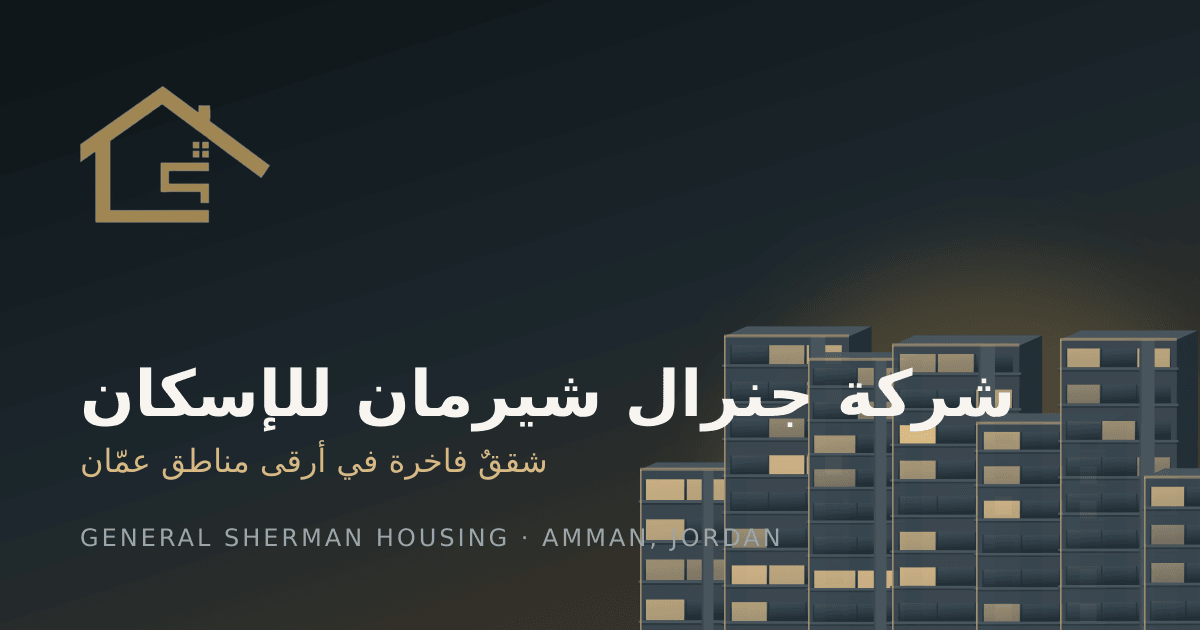
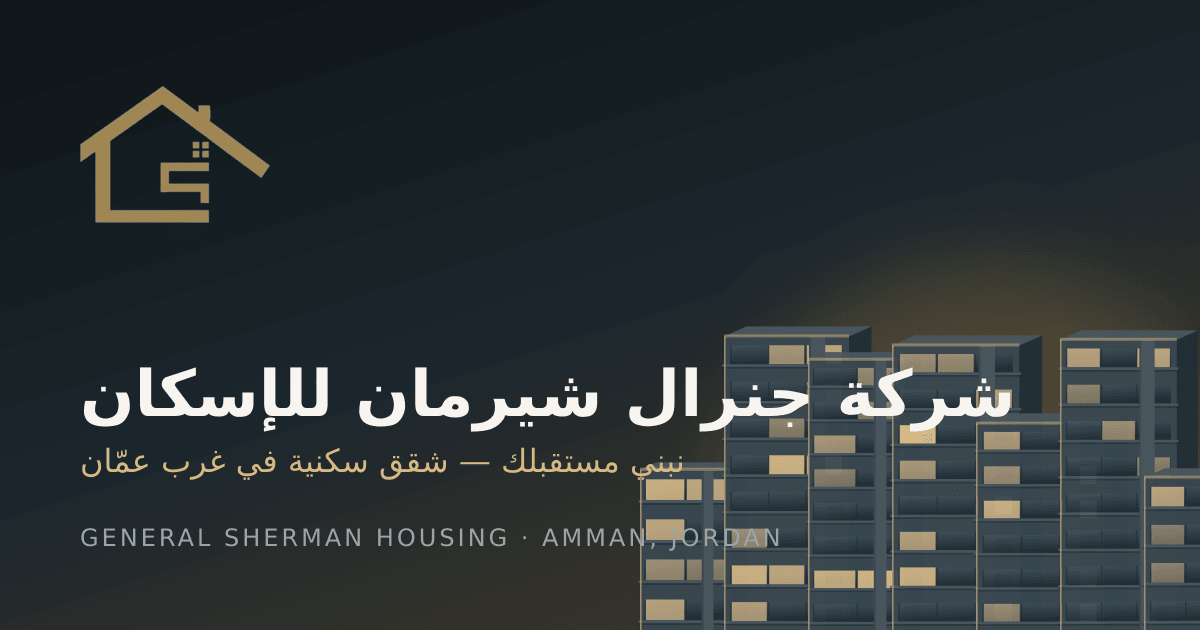
Real contact details, the company's own strapline, and two fixes
Phone and WhatsApp are now the mobile you gave (+962 7 9073 0903), and the
email is the one on the company's own material
(Mohammed.Zakaria90@hotmail.com), used for both the general and sales
addresses until there are two.

"نبني مستقبلك" replaces the tagline I had invented. It came from the same
material, and the field was never rendered anywhere — so it now appears
under the wordmark in the footer, where a strapline belongs.

Two things this surfaced:

The contact page's email link had no data-company-email, so unlike the
phone beside it its text was never refreshed from data.js — it would have
kept showing the old address after this change. The footer wordmark had the
same problem in reverse: its inline text still read "General Sherman" while
the dictionary had moved to "General Sherman Housing", so JS corrected it at
runtime but crawlers and no-JS visitors saw the stale one.

The footer's social icons were stacking vertically: .footer ul sets
display:grid at (0,1,1) and outranked .socials at (0,1,0). Matching the
specificity puts the row back.

Still placeholder: the office address, the social links, and the domain,
which feeds canonical/og:url and the sitemap.

Claude-Session: https://claude.ai/code/session_01Dn92wH5kZy9PxeQGkNu4eo

Changed region(s): [[0.1233, 0.6937, 0.5858, 0.7841]]

diff --git a/website/contact.html b/website/contact.html
@@ -36,7 +36,7 @@
       <img class="brand__mark" src="assets/img/logo-mark.png" alt="" width="512" height="378">
       <span>
         <span class="brand__name" data-i18n="brand.name">جنرال شيرمان</span>
-        <span class="brand__tag" data-i18n="brand.tag">General Sherman</span>
+        <span class="brand__tag" data-i18n="brand.tag">General Sherman Housing</span>
       </span>
     </a>
     <nav class="nav" id="nav" aria-label="القائمة الرئيسية">
@@ -124,11 +124,11 @@
           <h2 style="font-size:var(--fs-h3);margin-block-end:1.25rem" data-i18n="contact.directTitle">تواصل مباشر</h2>
           <ul class="tick-list" style="gap:1.25rem">
             <li><span data-icon="phone"></span><span><strong data-i18n="cta.call">اتصل بنا</strong><br>
-              <a data-tel href="#" data-company-phone class="link-arrow">+962 6 552 0176</a></span></li>
+              <a data-tel href="#" data-company-phone class="link-arrow">+962 7 9073 0903</a></span></li>
             <li><span data-icon="whatsapp"></span><span><strong data-i18n="cta.whatsapp">واتساب</strong><br>
               <a data-wa href="#" target="_blank" rel="noopener" class="link-arrow" data-i18n="contact.waLink">ابدأ محادثة</a></span></li>
             <li><span data-icon="mail"></span><span><strong data-i18n="form.email">البريد الإلكتروني</strong><br>
-              <a data-mail="sales" href="#" class="link-arrow">sales@generalsherman.jo</a></span></li>
+              <a data-mail="sales" href="#" data-company-email class="link-arrow">Mohammed.Zakaria90@hotmail.com</a></span></li>
             <li><span data-icon="pin"></span><span><strong data-i18n="contact.office">مكتب المبيعات</strong><br>
               <span data-i18n="footer.address">شارع عبد الله غوشة، مبنى ٤٦، الطابق الثالث، عمّان ١١١٩٤، الأردن</span></span></li>
             <li><span data-icon="clock"></span><span><strong data-i18n="contact.hours">ساعات العمل</strong><br>
@@ -175,8 +175,9 @@
         <a class="brand" href="index.html">
           <img class="brand__mark" src="assets/img/logo-mark.png" alt="" width="512" height="378">
           <span><span class="brand__name" data-i18n="brand.name">جنرال شيرمان</span>
-          <span class="brand__tag" data-i18n="brand.tag">General Sherman</span></span>
+          <span class="brand__tag" data-i18n="brand.tag">General Sherman Housing</span></span>
         </a>
+        <p class="footer__tagline" data-i18n="brand.tagline">نبني مستقبلك</p>
         <p class="footer__about" data-i18n="footer.about">شركة أردنية متخصصة في الشقق السكنية الفاخرة في غرب عمّان.</p>
         <ul class="socials">
           <li><a href="#" aria-label="Instagram" rel="noopener"><span data-icon="instagram"></span></a></li>
@@ -207,8 +208,8 @@
         <h2 data-i18n="footer.contact">تواصل معنا</h2>
         <ul class="footer__contact">
           <li><span data-icon="pin"></span><span data-i18n="footer.address">شارع عبد الله غوشة، مبنى ٤٦، الطابق الثالث، عمّان ١١١٩٤، الأردن</span></li>
-          <li><span data-icon="phone"></span><a data-tel href="#" data-company-phone>+962 6 552 0176</a></li>
-          <li><span data-icon="mail"></span><a data-mail href="#" data-company-email>info@generalsherman.jo</a></li>
+          <li><span data-icon="phone"></span><a data-tel href="#" data-company-phone>+962 7 9073 0903</a></li>
+          <li><span data-icon="mail"></span><a data-mail href="#" data-company-email>Mohammed.Zakaria90@hotmail.com</a></li>
           <li><span data-icon="clock"></span><span data-i18n="footer.hours">السبت – الخميس، ٩:٠٠ صباحاً – ٦:٠٠ مساءً</span></li>
         </ul>
       </div>

diff --git a/website/index.html b/website/index.html
@@ -37,8 +37,8 @@
   "logo": "https://www.generalsherman.jo/assets/img/logo.png",
   "image": "https://www.generalsherman.jo/assets/img/og-image.png",
   "description": "شركة أردنية للتطوير العقاري متخصصة في الشقق السكنية الفاخرة في غرب عمّان.",
-  "telephone": "+962 6 552 0176",
-  "email": "info@generalsherman.jo",
+  "telephone": "+962 7 9073 0903",
+  "email": "Mohammed.Zakaria90@hotmail.com",
   "address": {
     "@type": "PostalAddress",
     "streetAddress": "شارع عبد الله غوشة، مبنى ٤٦",
@@ -60,7 +60,7 @@
       <img class="brand__mark" src="assets/img/logo-mark.png" alt="" width="512" height="378">
       <span>
         <span class="brand__name" data-i18n="brand.name">جنرال شيرمان</span>
-        <span class="brand__tag" data-i18n="brand.tag">General Sherman</span>
+        <span class="brand__tag" data-i18n="brand.tag">General Sherman Housing</span>
       </span>
     </a>
     <nav class="nav" id="nav" aria-label="القائمة الرئيسية">
@@ -210,8 +210,9 @@
         <a class="brand" href="index.html">
           <img class="brand__mark" src="assets/img/logo-mark.png" alt="" width="512" height="378">
           <span><span class="brand__name" data-i18n="brand.name">جنرال شيرمان</span>
-          <span class="brand__tag" data-i18n="brand.tag">General Sherman</span></span>
+          <span class="brand__tag" data-i18n="brand.tag">General Sherman Housing</span></span>
         </a>
+        <p class="footer__tagline" data-i18n="brand.tagline">نبني مستقبلك</p>
         <p class="footer__about" data-i18n="footer.about">شركة أردنية متخصصة في الشقق السكنية الفاخرة في غرب عمّان.</p>
         <ul class="socials">
           <li><a href="#" aria-label="Instagram" rel="noopener"><span data-icon="instagram"></span></a></li>
@@ -242,8 +243,8 @@
         <h2 data-i18n="footer.contact">تواصل معنا</h2>
         <ul class="footer__contact">
           <li><span data-icon="pin"></span><span data-i18n="footer.address">شارع عبد الله غوشة، مبنى ٤٦، الطابق الثالث، عمّان ١١١٩٤، الأردن</span></li>
-          <li><span data-icon="phone"></span><a data-tel href="#" data-company-phone>+962 6 552 0176</a></li>
-          <li><span data-icon="mail"></span><a data-mail href="#" data-company-email>info@generalsherman.jo</a></li>
+          <li><span data-icon="phone"></span><a data-tel href="#" data-company-phone>+962 7 9073 0903</a></li>
+          <li><span data-icon="mail"></span><a data-mail href="#" data-company-email>Mohammed.Zakaria90@hotmail.com</a></li>
           <li><span data-icon="clock"></span><span data-i18n="footer.hours">السبت – الخميس، ٩:٠٠ صباحاً – ٦:٠٠ مساءً</span></li>
         </ul>
       </div>

diff --git a/website/about.html b/website/about.html
@@ -36,7 +36,7 @@
       <img class="brand__mark" src="assets/img/logo-mark.png" alt="" width="512" height="378">
       <span>
         <span class="brand__name" data-i18n="brand.name">جنرال شيرمان</span>
-        <span class="brand__tag" data-i18n="brand.tag">General Sherman</span>
+        <span class="brand__tag" data-i18n="brand.tag">General Sherman Housing</span>
       </span>
     </a>
     <nav class="nav" id="nav" aria-label="القائمة الرئيسية">
@@ -142,8 +142,9 @@
         <a class="brand" href="index.html">
           <img class="brand__mark" src="assets/img/logo-mark.png" alt="" width="512" height="378">
           <span><span class="brand__name" data-i18n="brand.name">جنرال شيرمان</span>
-          <span class="brand__tag" data-i18n="brand.tag">General Sherman</span></span>
+          <span class="brand__tag" data-i18n="brand.tag">General Sherman Housing</span></span>
         </a>
+        <p class="footer__tagline" data-i18n="brand.tagline">نبني مستقبلك</p>
         <p class="footer__about" data-i18n="footer.about">شركة أردنية متخصصة في الشقق السكنية الفاخرة في غرب عمّان.</p>
         <ul class="socials">
           <li><a href="#" aria-label="Instagram" rel="noopener"><span data-icon="instagram"></span></a></li>
@@ -174,8 +175,8 @@
         <h2 data-i18n="footer.contact">تواصل معنا</h2>
         <ul class="footer__contact">
           <li><span data-icon="pin"></span><span data-i18n="footer.address">شارع عبد الله غوشة، مبنى ٤٦، الطابق الثالث، عمّان ١١١٩٤، الأردن</span></li>
-          <li><span data-icon="phone"></span><a data-tel href="#" data-company-phone>+962 6 552 0176</a></li>
-          <li><span data-icon="mail"></span><a data-mail href="#" data-company-email>info@generalsherman.jo</a></li>
+          <li><span data-icon="phone"></span><a data-tel href="#" data-company-phone>+962 7 9073 0903</a></li>
+          <li><span data-icon="mail"></span><a data-mail href="#" data-company-email>Mohammed.Zakaria90@hotmail.com</a></li>
           <li><span data-icon="clock"></span><span data-i18n="footer.hours">السبت – الخميس، ٩:٠٠ صباحاً – ٦:٠٠ مساءً</span></li>
         </ul>
       </div>

diff --git a/website/gallery.html b/website/gallery.html
@@ -36,7 +36,7 @@
       <img class="brand__mark" src="assets/img/logo-mark.png" alt="" width="512" height="378">
       <span>
         <span class="brand__name" data-i18n="brand.name">جنرال شيرمان</span>
-        <span class="brand__tag" data-i18n="brand.tag">General Sherman</span>
+        <span class="brand__tag" data-i18n="brand.tag">General Sherman Housing</span>
       </span>
     </a>
     <nav class="nav" id="nav" aria-label="القائمة الرئيسية">
@@ -102,8 +102,9 @@
         <a class="brand" href="index.html">
           <img class="brand__mark" src="assets/img/logo-mark.png" alt="" width="512" height="378">
           <span><span class="brand__name" data-i18n="brand.name">جنرال شيرمان</span>
-          <span class="brand__tag" data-i18n="brand.tag">General Sherman</span></span>
+          <span class="brand__tag" data-i18n="brand.tag">General Sherman Housing</span></span>
         </a>
+        <p class="footer__tagline" data-i18n="brand.tagline">نبني مستقبلك</p>
         <p class="footer__about" data-i18n="footer.about">شركة أردنية متخصصة في الشقق السكنية الفاخرة في غرب عمّان.</p>
         <ul class="socials">
           <li><a href="#" aria-label="Instagram" rel="noopener"><span data-icon="instagram"></span></a></li>
@@ -134,8 +135,8 @@
         <h2 data-i18n="footer.contact">تواصل معنا</h2>
         <ul class="footer__contact">
           <li><span data-icon="pin"></span><span data-i18n="footer.address">شارع عبد الله غوشة، مبنى ٤٦، الطابق الثالث، عمّان ١١١٩٤، الأردن</span></li>
-          <li><span data-icon="phone"></span><a data-tel href="#" data-company-phone>+962 6 552 0176</a></li>
-          <li><span data-icon="mail"></span><a data-mail href="#" data-company-email>info@generalsherman.jo</a></li>
+          <li><span data-icon="phone"></span><a data-tel href="#" data-company-phone>+962 7 9073 0903</a></li>
+          <li><span data-icon="mail"></span><a data-mail href="#" data-company-email>Mohammed.Zakaria90@hotmail.com</a></li>
           <li><span data-icon="clock"></span><span data-i18n="footer.hours">السبت – الخميس، ٩:٠٠ صباحاً – ٦:٠٠ مساءً</span></li>
         </ul>
       </div>

diff --git a/website/payment-plans.html b/website/payment-plans.html
@@ -37,7 +37,7 @@
       <img class="brand__mark" src="assets/img/logo-mark.png" alt="" width="512" height="378">
       <span>
         <span class="brand__name" data-i18n="brand.name">جنرال شيرمان</span>
-        <span class="brand__tag" data-i18n="brand.tag">General Sherman</span>
+        <span class="brand__tag" data-i18n="brand.tag">General Sherman Housing</span>
       </span>
     </a>
     <nav class="nav" id="nav" aria-label="القائمة الرئيسية">
@@ -183,8 +183,9 @@
         <a class="brand" href="index.html">
           <img class="brand__mark" src="assets/img/logo-mark.png" alt="" width="512" height="378">
           <span><span class="brand__name" data-i18n="brand.name">جنرال شيرمان</span>
-          <span class="brand__tag" data-i18n="brand.tag">General Sherman</span></span>
+          <span class="brand__tag" data-i18n="brand.tag">General Sherman Housing</span></span>
         </a>
+        <p class="footer__tagline" data-i18n="brand.tagline">نبني مستقبلك</p>
         <p class="footer__about" data-i18n="footer.about">شركة أردنية متخصصة في الشقق السكنية الفاخرة في غرب عمّان.</p>
         <ul class="socials">
           <li><a href="#" aria-label="Instagram" rel="noopener"><span data-icon="instagram"></span></a></li>
@@ -215,8 +216,8 @@
         <h2 data-i18n="footer.contact">تواصل معنا</h2>
         <ul class="footer__contact">
           <li><span data-icon="pin"></span><span data-i18n="footer.address">شارع عبد الله غوشة، مبنى ٤٦، الطابق الثالث، عمّان ١١١٩٤، الأردن</span></li>
-          <li><span data-icon="phone"></span><a data-tel href="#" data-company-phone>+962 6 552 0176</a></li>
-          <li><span data-icon="mail"></span><a data-mail href="#" data-company-email>info@generalsherman.jo</a></li>
+          <li><span data-icon="phone"></span><a data-tel href="#" data-company-phone>+962 7 9073 0903</a></li>
+          <li><span data-icon="mail"></span><a data-mail href="#" data-company-email>Mohammed.Zakaria90@hotmail.com</a></li>
           <li><span data-icon="clock"></span><span data-i18n="footer.hours">السبت – الخميس، ٩:٠٠ صباحاً – ٦:٠٠ مساءً</span></li>
         </ul>
       </div>

diff --git a/website/project.html b/website/project.html
@@ -36,7 +36,7 @@
       <img class="brand__mark" src="assets/img/logo-mark.png" alt="" width="512" height="378">
       <span>
         <span class="brand__name" data-i18n="brand.name">جنرال شيرمان</span>
-        <span class="brand__tag" data-i18n="brand.tag">General Sherman</span>
+        <span class="brand__tag" data-i18n="brand.tag">General Sherman Housing</span>
       </span>
     </a>
     <nav class="nav" id="nav" aria-label="القائمة الرئيسية">
@@ -209,8 +209,9 @@
         <a class="brand" href="index.html">
           <img class="brand__mark" src="assets/img/logo-mark.png" alt="" width="512" height="378">
           <span><span class="brand__name" data-i18n="brand.name">جنرال شيرمان</span>
-          <span class="brand__tag" data-i18n="brand.tag">General Sherman</span></span>
+          <span class="brand__tag" data-i18n="brand.tag">General Sherman Housing</span></span>
         </a>
+        <p class="footer__tagline" data-i18n="brand.tagline">نبني مستقبلك</p>
         <p class="footer__about" data-i18n="footer.about">شركة أردنية متخصصة في الشقق السكنية الفاخرة في غرب عمّان.</p>
         <ul class="socials">
           <li><a href="#" aria-label="Instagram" rel="noopener"><span data-icon="instagram"></span></a></li>
@@ -241,8 +242,8 @@
         <h2 data-i18n="footer.contact">تواصل معنا</h2>
         <ul class="footer__contact">
           <li><span data-icon="pin"></span><span data-i18n="footer.address">شارع عبد الله غوشة، مبنى ٤٦، الطابق الثالث، عمّان ١١١٩٤، الأردن</span></li>
-          <li><span data-icon="phone"></span><a data-tel href="#" data-company-phone>+962 6 552 0176</a></li>
-          <li><span data-icon="mail"></span><a data-mail href="#" data-company-email>info@generalsherman.jo</a></li>
+          <li><span data-icon="phone"></span><a data-tel href="#" data-company-phone>+962 7 9073 0903</a></li>
+          <li><span data-icon="mail"></span><a data-mail href="#" data-company-email>Mohammed.Zakaria90@hotmail.com</a></li>
           <li><span data-icon="clock"></span><span data-i18n="footer.hours">السبت – الخميس، ٩:٠٠ صباحاً – ٦:٠٠ مساءً</span></li>
         </ul>
       </div>

diff --git a/website/projects.html b/website/projects.html
@@ -37,7 +37,7 @@
       <img class="brand__mark" src="assets/img/logo-mark.png" alt="" width="512" height="378">
       <span>
         <span class="brand__name" data-i18n="brand.name">جنرال شيرمان</span>
-        <span class="brand__tag" data-i18n="brand.tag">General Sherman</span>
+        <span class="brand__tag" data-i18n="brand.tag">General Sherman Housing</span>
       </span>
     </a>
     <nav class="nav" id="nav" aria-label="القائمة الرئيسية">
@@ -125,8 +125,9 @@
         <a class="brand" href="index.html">
           <img class="brand__mark" src="assets/img/logo-mark.png" alt="" width="512" height="378">
           <span><span class="brand__name" data-i18n="brand.name">جنرال شيرمان</span>
-          <span class="brand__tag" data-i18n="brand.tag">General Sherman</span></span>
+          <span class="brand__tag" data-i18n="brand.tag">General Sherman Housing</span></span>
         </a>
+        <p class="footer__tagline" data-i18n="brand.tagline">نبني مستقبلك</p>
         <p class="footer__about" data-i18n="footer.about">شركة أردنية متخصصة في الشقق السكنية الفاخرة في غرب عمّان.</p>
         <ul class="socials">
           <li><a href="#" aria-label="Instagram" rel="noopener"><span data-icon="instagram"></span></a></li>
@@ -157,8 +158,8 @@
         <h2 data-i18n="footer.contact">تواصل معنا</h2>
         <ul class="footer__contact">
           <li><span data-icon="pin"></span><span data-i18n="footer.address">شارع عبد الله غوشة، مبنى ٤٦، الطابق الثالث، عمّان ١١١٩٤، الأردن</span></li>
-          <li><span data-icon="phone"></span><a data-tel href="#" data-company-phone>+962 6 552 0176</a></li>
-          <li><span data-icon="mail"></span><a data-mail href="#" data-company-email>info@generalsherman.jo</a></li>
+          <li><span data-icon="phone"></span><a data-tel href="#" data-company-phone>+962 7 9073 0903</a></li>
+          <li><span data-icon="mail"></span><a data-mail href="#" data-company-email>Mohammed.Zakaria90@hotmail.com</a></li>
           <li><span data-icon="clock"></span><span data-i18n="footer.hours">السبت – الخميس، ٩:٠٠ صباحاً – ٦:٠٠ مساءً</span></li>
         </ul>
       </div>

diff --git a/website/units.html b/website/units.html
@@ -37,7 +37,7 @@
       <img class="brand__mark" src="assets/img/logo-mark.png" alt="" width="512" height="378">
       <span>
         <span class="brand__name" data-i18n="brand.name">جنرال شيرمان</span>
-        <span class="brand__tag" data-i18n="brand.tag">General Sherman</span>
+        <span class="brand__tag" data-i18n="brand.tag">General Sherman Housing</span>
       </span>
     </a>
     <nav class="nav" id="nav" aria-label="القائمة الرئيسية">
@@ -117,8 +117,9 @@
         <a class="brand" href="index.html">
           <img class="brand__mark" src="assets/img/logo-mark.png" alt="" width="512" height="378">
           <span><span class="brand__name" data-i18n="brand.name">جنرال شيرمان</span>
-          <span class="brand__tag" data-i18n="brand.tag">General Sherman</span></span>
+          <span class="brand__tag" data-i18n="brand.tag">General Sherman Housing</span></span>
         </a>
+        <p class="footer__tagline" data-i18n="brand.tagline">نبني مستقبلك</p>
         <p class="footer__about" data-i18n="footer.about">شركة أردنية متخصصة في الشقق السكنية الفاخرة في غرب عمّان.</p>
         <ul class="socials">
           <li><a href="#" aria-label="Instagram" rel="noopener"><span data-icon="instagram"></span></a></li>
@@ -149,8 +150,8 @@
         <h2 data-i18n="footer.contact">تواصل معنا</h2>
         <ul class="footer__contact">
           <li><span data-icon="pin"></span><span data-i18n="footer.address">شارع عبد الله غوشة، مبنى ٤٦، الطابق الثالث، عمّان ١١١٩٤، الأردن</span></li>
-          <li><span data-icon="phone"></span><a data-tel href="#" data-company-phone>+962 6 552 0176</a></li>
-          <li><span data-icon="mail"></span><a data-mail href="#" data-company-email>info@generalsherman.jo</a></li>
+          <li><span data-icon="phone"></span><a data-tel href="#" data-company-phone>+962 7 9073 0903</a></li>
+          <li><span data-icon="mail"></span><a data-mail href="#" data-company-email>Mohammed.Zakaria90@hotmail.com</a></li>
           <li><span data-icon="clock"></span><span data-i18n="footer.hours">السبت – الخميس، ٩:٠٠ صباحاً – ٦:٠٠ مساءً</span></li>
         </ul>
       </div>

diff --git a/website/404.html b/website/404.html
@@ -34,7 +34,7 @@
       <img class="brand__mark" src="assets/img/logo-mark.png" alt="" width="512" height="378">
       <span>
         <span class="brand__name" data-i18n="brand.name">جنرال شيرمان</span>
-        <span class="brand__tag" data-i18n="brand.tag">General Sherman</span>
+        <span class="brand__tag" data-i18n="brand.tag">General Sherman Housing</span>
       </span>
     </a>
     <nav class="nav" id="nav" aria-label="القائمة الرئيسية">
@@ -80,8 +80,9 @@
         <a class="brand" href="index.html">
           <img class="brand__mark" src="assets/img/logo-mark.png" alt="" width="512" height="378">
           <span><span class="brand__name" data-i18n="brand.name">جنرال شيرمان</span>
-          <span class="brand__tag" data-i18n="brand.tag">General Sherman</span></span>
+          <span class="brand__tag" data-i18n="brand.tag">General Sherman Housing</span></span>
         </a>
+        <p class="footer__tagline" data-i18n="brand.tagline">نبني مستقبلك</p>
         <p class="footer__about" data-i18n="footer.about">شركة أردنية متخصصة في الشقق السكنية الفاخرة في غرب عمّان.</p>
         <ul class="socials">
           <li><a href="#" aria-label="Instagram" rel="noopener"><span data-icon="instagram"></span></a></li>
@@ -112,8 +113,8 @@
         <h2 data-i18n="footer.contact">تواصل معنا</h2>
         <ul class="footer__contact">
           <li><span data-icon="pin"></span><span data-i18n="footer.address">شارع عبد الله غوشة، مبنى ٤٦، الطابق الثالث، عمّان ١١١٩٤، الأردن</span></li>
-          <li><span data-icon="phone"></span><a data-tel href="#" data-company-phone>+962 6 552 0176</a></li>
-          <li><span data-icon="mail"></span><a data-mail href="#" data-company-email>info@generalsherman.jo</a></li>
+          <li><span data-icon="phone"></span><a data-tel href="#" data-company-phone>+962 7 9073 0903</a></li>
+          <li><span data-icon="mail"></span><a data-mail href="#" data-company-email>Mohammed.Zakaria90@hotmail.com</a></li>
           <li><span data-icon="clock"></span><span data-i18n="footer.hours">السبت – الخميس، ٩:٠٠ صباحاً – ٦:٠٠ مساءً</span></li>
         </ul>
       </div>

diff --git a/website/assets/js/data.js b/website/assets/js/data.js
@@ -10,18 +10,19 @@
 const COMPANY = {
   name: { ar: "شركة جنرال شيرمان للإسكان", en: "General Sherman Housing" },   // «REPLACE»
   short: { ar: "جنرال شيرمان", en: "General Sherman" },                              // «REPLACE»
-  tagline: { ar: "سكنٌ يليق بمقامك", en: "Homes with standing" },
+  tagline: { ar: "نبني مستقبلك", en: "We build your future" },
   founded: null,                      // «REPLACE» — unverified, so no page states one
   intro: {
     ar: "شركة أردنية للتطوير العقاري متخصصة في الشقق السكنية الفاخرة في غرب عمّان، تجمع بين العمارة الهادئة والتشطيبات عالية الجودة والتسليم في موعده.",
     en: "A Jordanian residential developer specialising in luxury apartments across West Amman — restrained architecture, high-specification finishes, and delivery on schedule.",
   },
-  phone: "+962 6 552 0176",           // «REPLACE»
-  phoneHref: "+96265520176",
-  whatsapp: "962790000176",           // «REPLACE» — digits only, no + or spaces
-  email: "info@generalsherman.jo",        // «REPLACE»
-  salesEmail: "sales@generalsherman.jo",  // «REPLACE»
-  domain: "https://www.generalsherman.jo",// «REPLACE»
+  phone: "+962 7 9073 0903",
+  phoneHref: "+962790730903",
+  whatsapp: "962790730903",           // same mobile as `phone` — change if WhatsApp is on another line
+  email: "Mohammed.Zakaria90@hotmail.com",
+  salesEmail: "Mohammed.Zakaria90@hotmail.com",   // one address for both for now
+  domain: "https://www.generalsherman.jo",// «REPLACE» — no domain registered yet;
+                                      // this feeds canonical/og:url and the sitemap
   address: {
     ar: "شارع عبد الله غوشة، مبنى ٤٦، الطابق الثالث، عمّان ١١١٩٤، الأردن",
     en: "46 Abdullah Ghosheh Street, 3rd Floor, Amman 11194, Jordan",

diff --git a/website/assets/css/main.css b/website/assets/css/main.css
@@ -518,10 +518,14 @@ table.data tbody tr:hover { background: #FCFAF6; }
 .footer ul { display: grid; gap: 0.7rem; }
 .footer .brand__name { color: var(--ivory); }
 .footer .brand__mark { color: var(--brass-2); }
+.footer__tagline {
+  margin: 0.9rem 0 0; font-size: 1.05rem; font-weight: 600; color: var(--brass-2);
+  letter-spacing: 0.01em;
+}
 .footer__about { max-width: 40ch; margin-block-start: 1.25rem; }
 .footer__contact li { display: flex; gap: 0.65rem; align-items: flex-start; }
 .footer__contact .icon { inline-size: 1.05em; block-size: 1.05em; color: var(--brass-2); flex: none; margin-block-start: 0.42em; }
-.socials { display: flex; gap: 0.6rem; margin-block-start: 1.5rem; }
+.footer .socials { display: flex; gap: 0.6rem; margin-block-start: 1.5rem; }
 .socials a { inline-size: 38px; block-size: 38px; display: grid; place-items: center; border: 1px solid rgba(250, 247, 241, 0.2); border-radius: 50%; transition: background 0.2s, border-color 0.2s, color 0.2s; }
 .socials a:hover { background: var(--brass); border-color: var(--brass); color: #fff; }
 .socials .icon { inline-size: 17px; block-size: 17px; }

diff --git a/website/assets/js/i18n.js b/website/assets/js/i18n.js
@@ -10,6 +10,7 @@ const T = {
   "brand.name": { ar: "جنرال شيرمان", en: "General Sherman" },
   "brand.full": { ar: "شركة جنرال شيرمان للإسكان", en: "General Sherman Housing" },
   "brand.tag": { ar: "General Sherman Housing", en: "شركة جنرال شيرمان للإسكان" },
+  "brand.tagline": { ar: "نبني مستقبلك", en: "We build your future" },
 
   /* home page */
   "home.eyebrow": { ar: "تطوير عقاري في غرب عمّان", en: "Residential development in West Amman" },
